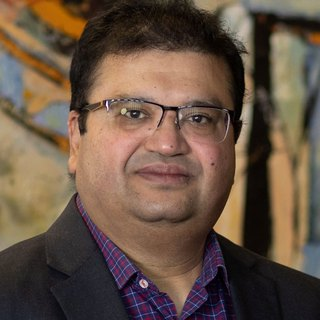
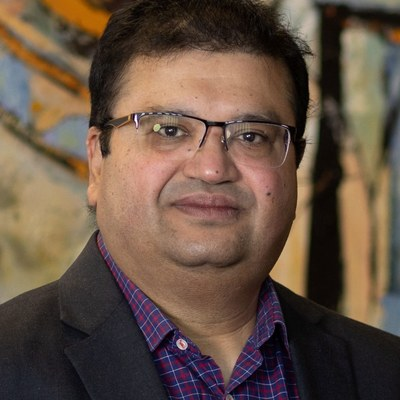
Add Anwesha Sarkar; order organizers by citations; reframe headshots

diff --git a/index.html b/index.html
@@ -63,7 +63,7 @@
   <div class="wrap grid g2">
     <div>
       <h2 id="about-h">Why this workshop</h2>
-      <p>Segmentation masks are used as inputs to risk models, histology images are paired with gene expression profiles, and medical images are interpreted alongside wearable signals and health records. In our analysis of recent CVPR, WACV, ICCV, and ECCV papers, only 18% of biomedical vision abstracts mention computational efficiency, and 21% mention generalization, calibration, or fairness.</p>
+      <p>Segmentation masks are used as inputs to risk models, histology images are paired with gene expression profiles, atomic force microscopy (AFM) maps the mechanics of single cells, and medical images are interpreted alongside wearable signals and health records. In our analysis of recent CVPR, WACV, ICCV, and ECCV papers, only 18% of biomedical vision abstracts mention computational efficiency, and 21% mention generalization, calibration, or fairness.</p>
       <p>POPMed will bring together researchers from three communities: <strong>efficient medical vision</strong>, <strong>imaging–omics representation learning</strong>, and <strong>digital health</strong>. We will ask every contribution to report <em>accuracy</em>, <em>computational requirements</em>, and <em>reliability</em> together, which we call the joint reporting standard.</p>
       <p><strong>Why a vision workshop?</strong> Every contribution will use images, video, volumes, or slides as a primary input or output; other modalities add context to a visual task rather than replace it.</p>
     </div>
@@ -92,7 +92,7 @@
       <article class="card lav">
         <span class="tag">Pillar 2</span>
         <h3>Imaging–omics and biological representation</h3>
-        <ul><li>Histology with spatial or bulk transcriptomics</li><li>Radiogenomics and molecular subtyping</li><li>Biologically structured representations</li></ul>
+        <ul><li>Histology with spatial or bulk transcriptomics</li><li>Radiogenomics and molecular subtyping</li><li>Cell and molecular microscopy, including AFM imaging and nanomechanics</li><li>Biologically structured representations</li></ul>
       </article>
       <article class="card teal">
         <span class="tag">Pillar 3</span>
@@ -107,14 +107,14 @@
 <section id="intersection" aria-labelledby="int-h">
   <div class="wrap">
     <h2 id="int-h">Where the expertise meets</h2>
-    <p class="kicker">Each faculty organizer leads research in one pillar, and the workshop topic is the region where all three overlap. The circles show complementary expertise and proposed thematic links; they do not imply that each organizer has published in every overlap.</p>
+    <p class="kicker">The four faculty organizers lead research in the three pillars, with two sharing the imaging–omics pillar, and the workshop topic is the region where all three overlap. The circles show complementary expertise and proposed thematic links; they do not imply that each organizer has published in every overlap.</p>
     <figure class="venn">
-      <a href="assets/expertise_venn_web.svg" title="Open the diagram at full size"><img src="assets/expertise_venn_web.svg" width="650" height="380" alt="Three-circle diagram. Circle one, efficient medical vision and segmentation, Md Mostafijur Rahman. Circle two, imaging–omics and biological representation, Md Tauhidul Islam. Circle three, digital health and clinical translation, Sheikh Mohammed Shariful Islam. Overlaps: compute-aware fusion of images and molecular data; deployable segmentation validated in clinical workflows; image-derived biomarkers linked to patient outcomes. Center: reliable, resource-aware multimodal vision for patient-centered healthcare."></a>
+      <a href="assets/expertise_venn_web.svg" title="Open the diagram at full size"><img src="assets/expertise_venn_web.svg" width="650" height="380" alt="Three-circle diagram. Circle one, efficient medical vision and segmentation, Md Mostafijur Rahman. Circle two, imaging–omics and biological representation, Md Tauhidul Islam and Anwesha Sarkar. Circle three, digital health and clinical translation, Sheikh Mohammed Shariful Islam. Overlaps: compute-aware fusion of images and molecular data; deployable segmentation validated in clinical workflows; image-derived biomarkers linked to patient outcomes. Center: reliable, resource-aware multimodal vision for patient-centered healthcare."></a>
       <figcaption>Complementary organizer expertise and the workshop's intersection. Tap the diagram to open it full size.</figcaption>
     </figure>
     <dl class="venn-text" aria-label="Diagram in text form">
       <div><dt>Efficient medical vision and segmentation</dt><dd>Md Mostafijur Rahman</dd></div>
-      <div><dt>Imaging–omics and biological representation</dt><dd>Md Tauhidul Islam</dd></div>
+      <div><dt>Imaging–omics and biological representation</dt><dd>Md Tauhidul Islam, Anwesha Sarkar</dd></div>
       <div><dt>Digital health and clinical translation</dt><dd>Sheikh Mohammed Shariful Islam</dd></div>
       <div class="center"><dt>Where all three meet</dt><dd>Reliable, resource-aware multimodal vision for patient-centered healthcare</dd></div>
     </dl>
@@ -128,6 +128,7 @@
       <ul>
         <li>Efficient 2D/3D medical image segmentation, detection, and registration</li>
         <li>Imaging–omics integration and biologically structured representations</li>
+        <li>Cell and molecular microscopy, including atomic force microscopy (AFM) imaging, nanomechanical maps, and their links to omics</li>
         <li>Imaging with health records, clinical text, wearables, and longitudinal data</li>
         <li>Learning with missing modalities and limited paired or labeled data</li>
         <li>Cross-institution generalization, calibration, uncertainty, and subgroup fairness</li>
@@ -223,28 +224,10 @@
 <section id="organizers" aria-labelledby="org-h">
   <div class="wrap">
     <h2 id="org-h">Organizers</h2>
-    <p class="kicker">Organizing roles are being finalized by the team. Photos are from each organizer's institutional or personal website.</p>
+    <p class="kicker">Organizers are listed by Google Scholar citation count, highest first. Organizing roles are being finalized by the team. Photos are from each organizer's institutional or personal website.</p>
     <div class="people">
       <article class="card person">
-        <img class="avatar" src="assets/people/rahman.jpg" width="80" height="80" alt="Headshot of Md Mostafijur Rahman" loading="lazy">
-        <div>
-          <h3>Md Mostafijur Rahman</h3>
-          <p class="aff">Assistant Professor, Electrical and Computer Engineering, Texas Tech University</p>
-          <p>Efficient and reliable medical image segmentation in 2D and 3D, including EMCAD (CVPR 2024) and EffiDec3D (CVPR 2025).</p>
-          <p class="links"><a href="https://mostafij-rahman.github.io/">Website</a></p>
-        </div>
-      </article>
-      <article class="card person">
-        <img class="avatar" src="assets/people/tauhidul.jpg" width="80" height="80" alt="Headshot of Md Tauhidul Islam" loading="lazy">
-        <div>
-          <h3>Md Tauhidul Islam</h3>
-          <p class="aff">Assistant Professor, Radiation Oncology, Stanford University</p>
-          <p>Biologically structured, image-like representations of omics data and multimodal models that integrate imaging and molecular signals.</p>
-          <p class="links"><a href="https://med.stanford.edu/profiles/md-tauhidul-islam">Profile</a></p>
-        </div>
-      </article>
-      <article class="card person">
-        <img class="avatar" src="assets/people/shariful.jpg" width="80" height="80" alt="Headshot of Sheikh Mohammed Shariful Islam" loading="lazy">
+        <img class="avatar" src="assets/people/shariful.jpg" width="96" height="96" alt="Headshot of Sheikh Mohammed Shariful Islam" loading="lazy">
         <div>
           <h3>Sheikh Mohammed Shariful Islam</h3>
           <p class="aff">Professor, Nutritional Sciences, Texas Tech University</p>
@@ -253,7 +236,34 @@
         </div>
       </article>
       <article class="card person">
-        <img class="avatar" src="assets/people/howlader.jpg" width="80" height="80" alt="Headshot of Koushik Howlader" loading="lazy">
+        <img class="avatar" src="assets/people/rahman.jpg" width="96" height="96" alt="Headshot of Md Mostafijur Rahman" loading="lazy">
+        <div>
+          <h3>Md Mostafijur Rahman</h3>
+          <p class="aff">Assistant Professor, Electrical and Computer Engineering, Texas Tech University</p>
+          <p>Efficient and reliable medical image segmentation in 2D and 3D, including EMCAD (CVPR 2024) and EffiDec3D (CVPR 2025).</p>
+          <p class="links"><a href="https://mostafij-rahman.github.io/">Website</a></p>
+        </div>
+      </article>
+      <article class="card person">
+        <img class="avatar" src="assets/people/tauhidul.jpg" width="96" height="96" alt="Headshot of Md Tauhidul Islam" loading="lazy">
+        <div>
+          <h3>Md Tauhidul Islam</h3>
+          <p class="aff">Assistant Professor, Radiation Oncology, Stanford University</p>
+          <p>Biologically structured, image-like representations of omics data and multimodal models that integrate imaging and molecular signals.</p>
+          <p class="links"><a href="https://med.stanford.edu/profiles/md-tauhidul-islam">Profile</a></p>
+        </div>
+      </article>
+      <article class="card person">
+        <img class="avatar" src="assets/people/sarkar.jpg" width="96" height="96" alt="Headshot of Anwesha Sarkar" loading="lazy">
+        <div>
+          <h3>Anwesha Sarkar</h3>
+          <p class="aff">Assistant Professor, Electrical and Computer Engineering, Iowa State University</p>
+          <p>Atomic force microscopy of live cells and biomolecules, nanomechanics linked to omics, and deep learning for AFM imaging and analysis.</p>
+          <p class="links"><a href="https://www.engineering.iastate.edu/people/profile/anweshas/">Profile</a> <a href="https://sites.google.com/iastate.edu/bacm-lab/home">Lab</a></p>
+        </div>
+      </article>
+      <article class="card person">
+        <img class="avatar" src="assets/people/howlader.jpg" width="96" height="96" alt="Headshot of Koushik Howlader" loading="lazy">
         <div>
           <h3>Koushik Howlader</h3>
           <p class="aff">Ph.D. student, Computer Science, Iowa State University</p>
@@ -262,7 +272,7 @@
         </div>
       </article>
       <article class="card person">
-        <img class="avatar" src="assets/people/roy.jpg" width="80" height="80" alt="Headshot of Tirtho Roy" loading="lazy">
+        <img class="avatar" src="assets/people/roy.jpg" width="96" height="96" alt="Headshot of Tirtho Roy" loading="lazy">
         <div>
           <h3>Tirtho Roy</h3>
           <p class="aff">Researcher, Translational AI Center, Iowa State University</p>
@@ -297,7 +307,7 @@
 <footer>
   <div class="wrap">
     <p><strong>Status:</strong> Proposed CVPR 2027 workshop: acceptance pending. Not an official CVPR page.</p>
-    <p>Last updated 27 October 2026. Figures and data were produced by the organizers; see the project repository for sources and methods.</p>
+    <p>Last updated 28 October 2026. Figures and data were produced by the organizers; see the project repository for sources and methods.</p>
   </div>
 </footer>
 

diff --git a/assets/style.css b/assets/style.css
@@ -144,7 +144,7 @@ tr:last-child td { border-bottom: 0; }
 /* Organizers */
 .people { display: grid; grid-template-columns: repeat(auto-fill, minmax(280px, 1fr)); gap: 18px; }
 .person { display: flex; gap: 14px; align-items: flex-start; }
-.avatar { flex: 0 0 80px; width: 80px; height: 80px; border-radius: 50%; object-fit: cover; background: var(--tint-blue); border: 2px solid #fff; box-shadow: 0 0 0 1px var(--line); }
+.avatar { flex: 0 0 96px; width: 96px; height: 96px; border-radius: 50%; object-fit: cover; background: var(--tint-blue); border: 2px solid #fff; box-shadow: 0 0 0 1px var(--line); }
 .person h3 { margin: 0; }
 .person .aff { color: var(--ink-3); font-size: .9rem; margin: 2px 0 6px; }
 .person p { font-size: .93rem; color: var(--ink-2); margin: 0 0 6px; }
